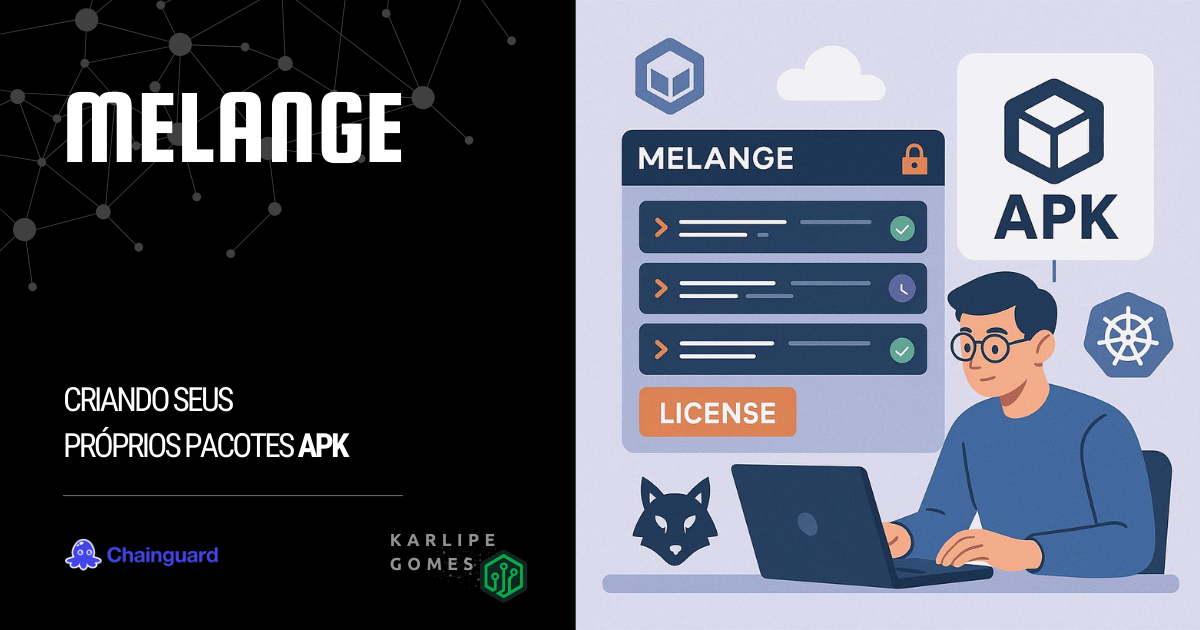
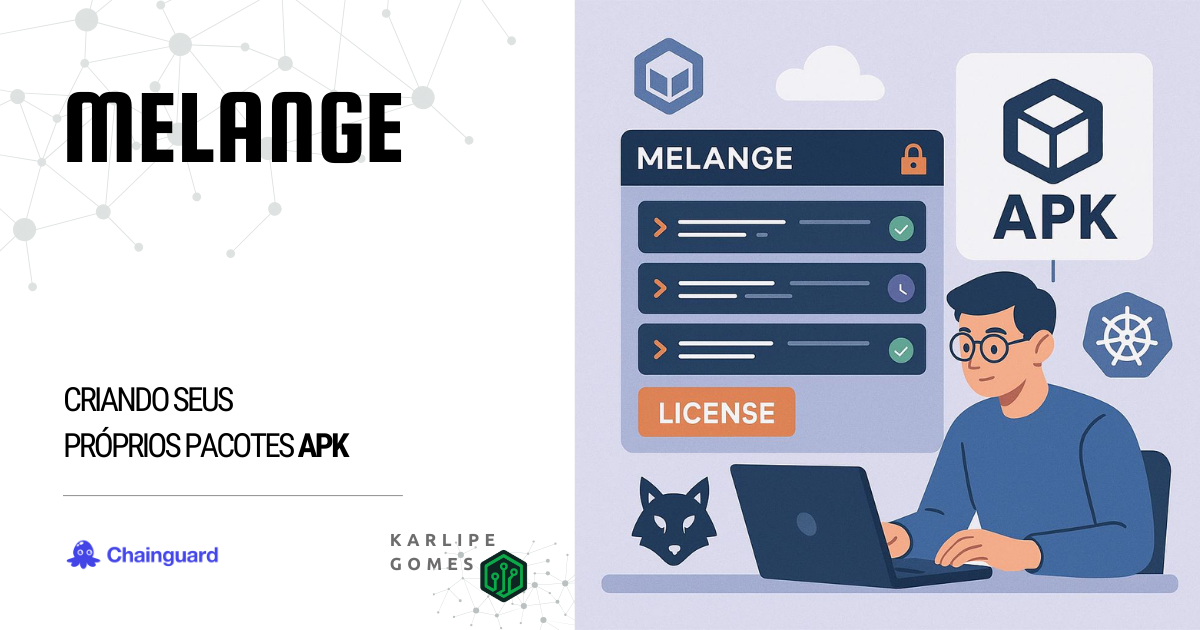
docs: Update Doc and draft APKO

diff --git a/docs/blog/posts/2025/2021-09-17-APKO.md b/docs/blog/posts/2025/2021-09-17-APKO.md
@@ -1,0 +1,271 @@
+---
+authors:
+  - karlipe
+date: 
+    created: 2025-09-17
+categories:
+    - CloudNative
+tags:
+    - distroless
+    - apko
+    - chainguard
+# readtime: 21
+draft: true
+---
+
+# **APKO: Criando suas Imagens Distroless Distroless/Zero-CVE***
+
+<figure markdown="span">
+  ![](imgs/apko/thumbnail.png)
+</figure>
+
+Empresas que tratam segurança com seriedade sabem que gerenciar vulnerabilidades pode parecer um trabalho infinito. Dependendo do tamanho do seu workload, pode se tornar inviável corrigir todas as vulnerabilidades existentes. Isso pode fazer com que muitas nunca sejam tratadas — ou simplesmente sejam ignoradas.
+
+E pior do que precisar atualizar softwares e ferramentas vulneráveis é manter pacotes que nem sequer são necessários para a execução da sua aplicação.
+
+Agora, imagine se fosse possível — de forma simples — ter controle sobre todas as versões de softwares e ferramentas instalados, garantindo que suas imagens estejam, na prática, **Zero-CVE***.
+
+<!-- more -->
+
+## **Motivação**
+
+O APKO é uma ferramenta para criar Imagens de Container(*single-layer*) baseadas em pacotes APK. Ele permite que você crie e mantenha suas próprias imagens base de serviços, de forma idempotente totalmente reproduzível em um único arquivo **YAML**.
+
+Abaixo podemos ver uma exemplificação simples de como o processo funciona, envolvendo [**MELANGE**](2021-09-10-Melange.md) e o [**APKO**](2021-09-17-APKO.md). **Melange** gera pacotes APKs, usáveis em [**Alpine**](https://alpinelinux.org/about/)(Linux minimalista mantido pela comunidade) e [**Wolfi**](https://edu.chainguard.dev/open-source/wolfi/overview/)(Linux *undistro* mantida ChainGuard). E então o **APKO**, consegue usar tanto as imagens personalizadas, quanto as de ambos repositórios e gerar a partir daí imagens super minimalistas.
+
+<figure markdown="span">
+  ![](imgs/apko/apko-ecosystem.png)
+</figure>
+
+
+Os principais ganhos são:
+
+- Facilidade de reproduzir as imagens base.
+- Possibilidade de especificar apenas dependências **NECESSÁRIAS** para o correto funcionamento da sua aplicação.
+- Suporte a SBOMs (Software Bills of Materials), o que facilita a rastreablidade e controle de tudo que está instalado nas suas imagens.
+- Diminuição dos vetores de ataque existentes no container, pois existirá apenas o mínimo necessário.
+
+Um ponto importante sobre o **Zero-CVE*** é que mesmo que tenha apenas o pacote do seu serviço, caso ele tenha vulnerabilidades conhecidas, o APKO não resolverá isso, é necessário que o seu pacote escolhido TAMBEM não tenha vulnerabilidaes, mas caso isso seja possível de forma simples, garantimos pois nenhum outro pacote será instalado.
+
+A Página de documentação da [**Chainguard**](https://edu.chainguard.dev/open-source/build-tools/apko/getting-started-with-apko/) é bem completa e pode ajudar bastante a entender, utilizando alguns exemplos práticos. Inclusive nem é necessário instalar nada, pois a partir do proprio container do apko *(via docker run)* é possível criar essas imagens.
+
+## **Como Utilizar**
+
+### **Pré-requisito**
+
+- **Download da imagem**: Outro passo de boa prática mas não 100% necessário, porque indiretamente a imagem será baixada quando você executar de fato o comando, é baixar a ultima imagem disponível na sua máquina para que você consiga realizar alguns passos caso queira realizar de forma offline.
+
+    ```shell title="Downloading APKO image"
+    docker pull cgr.dev/chainguard/apko
+    ```
+
+- **Pacotes Customizados já criados**: Caso tenha interesse em aumentar o nível de personalização da sua image, poderá usar pacotes APKs customizados pelo seu time, para atender demandas de alguns DEVs especificamente.
+
+
+## **Cenário Hipotético**
+
+- **Mitigar vulnerabilidade das imagens das Aplicações**
+
+    Imagine que sua empresa possui centenas de APIs expostas pra clientes, e que você tem que manter as imagens base atualizadas/livres de vulnerabilidade de forma a manter o **Compliance** exigido por seus clientes mais críticos. Tudo isso pensando em Multi-Arquitetura, neste caso: **X64 e ARM**.
+
+    Versões utilizadas para exemplo:
+
+      - [x] DotNet AspNET 8
+        </br></br>
+
+- **Situação Atual**
+
+    Hoje todos os desenvolvedores utilizam as imagens padrões oferecidas pela Microsoft, tendo como base o Debian mais atual. *Dockerfile, processo e docker-compose são gerados automaticamente pela IDE com base no SDK escolhido.*
+
+## **Exemplo Prático**
+
+### **Criar Arquivo de Configuração**
+
+Segue uma exemplificação de um arquivo .yaml que atende todas as necessidades citadas no cenário passado.
+
+```yaml title="dotnet8-aspnet.yaml"
+contents:
+  keyring:
+    - ./melange.rsa.pub
+  repositories:
+    - '@local /work/packages'
+    - https://dl-cdn.alpinelinux.org/alpine/edge/main
+  packages:
+    - ca-certificates-bundle
+    - dotnet8-aspnet@local
+    
+stop-signal: SIGTERM
+
+work-dir: /app
+
+accounts:
+  groups:
+    - groupname: company-user
+      gid: 10000
+  users:
+    - groupname: company-user
+      uid: 10000
+  run-as: company-user
+
+environment:
+  DOTNET_ROOT: "/usr/share/dotnet"
+  PATH: "/usr/local/sbin:/usr/local/bin:/usr/sbin:/usr/bin:/sbin:/bin:/usr/share/dotnet"
+  ASPNETCORE_HTTP_PORTS: 80
+  ASPNETCORE_URLS: "http://0.0.0.0:80"
+  DOTNET_RUNNING_IN_CONTAINER: true
+
+entrypoint:
+  command: dotnet
+
+archs:
+  - amd64
+  - arm64
+```
+
+#### Explicando as opções utilizadas:
+
+- **Sections**
+    - **contents**, Lista de onde o APKO irá buscar os conteudos, ordenado por:
+        ```yaml hl_lines="1"
+        contents:
+          keyring:
+            - ./melange.rsa.pub
+            ..
+        ```
+        - **keyring**, Localização das chaves públicas para checagem das assinaturas dos pacotes.
+            ```yaml hl_lines="2"
+            contents:
+              keyring:
+                - ./melange.rsa.pub
+                ..
+            ```
+        - **repositories**: Quais repositórios serão utilizados pra buscar os pacotes, podendo ser ambos locais ou remotos.
+            ```yaml hl_lines="2"
+            ..
+              repositories:
+                - '@local /work/packages'
+                - https://dl-cdn.alpinelinux.org/alpine/edge/main
+              ..
+            ```
+        - **packages**: Lista de pacotes necessários para a sua imagem, não necessário listar as subdependencias, isso será automaticamente buscado durante instalação.
+            ```yaml hl_lines="2"
+            ..
+                packages:
+                  - ca-certificates-bundle
+                  - dotnet8-aspnet@local
+              ..
+            ```
+    - **stop-signal**: Sinal de desligamento enviado pelo runtime ao processo principal no container. Neste caso o sinal enviado també é conhecido como 'graceful shutdown', pois o processo vai salvando estado, fechando conexões e liberando portas.
+        ```yaml hl_lines="2"
+        ..
+        stop-signal: SIGTERM
+        ..
+        ```
+    - **work-dir**: Diretório do serviço a ser executado.
+        ```yaml hl_lines="2"
+        ..
+        work-dir: /app
+        ..
+        ```
+    - **accounts**: É uma boa prática definir um user com pouquissima permissão/acesso para executar serviços, evitando o compromentimento do container. Essa config é usado para configurar contas de usuário na imagem e pode ser utilizado ao executar processos no container.
+        ```yaml hl_lines="2 3 6 9"
+        ..
+        accounts:
+          groups:
+            - groupname: company-user
+              gid: 10000
+          users:
+            - groupname: company-user
+              uid: 10000
+          run-as: company-user
+        ..
+        ```
+    - **environment**: Lista de variáveis de ambiente da Imagem.
+        ```yaml hl_lines="2"
+        ..
+        environment:
+          DOTNET_ROOT: "/usr/share/dotnet"
+          PATH: "/usr/local/sbin:/usr/local/b...
+          ..
+        ```
+    - **entrypoint**: Define o comando ou serviço padrão que será executado em runtime.
+        ```yaml hl_lines="2 3"
+        ..
+        entrypoint:
+          command: dotnet
+        ..
+        ```
+    - **archs**: Define a lista de arquiteturas que a imagem poderá ser *buildada*.
+        ```yaml hl_lines="2"
+        ..
+        archs:
+          - amd64
+          - arm64
+        ```
+
+### **Execução e Arquivos Gerados**
+
+Para ***buildar*** a Imagem, bastaria executar o comando abaixo. Nele podemos ver que está sendo referenciado quais arquiteturas serão utilizadas **`--arch amd64,arm64`**. Após a retag enviaremos a imagem para nosso registry.
+
+```shell title="Building Image dotnet8-aspnet"
+docker run --rm --workdir /work -v ${PWD}:/work \
+  cgr.dev/chainguard/apko build dotnet8-aspnet.yaml \
+  dotnet8-aspnet:test dotnet8-aspnet.tar --arch amd64,arm64
+
+docker load < ./dotnet8-aspnet.tar
+
+docker tag dotnet8-aspnet:test-amd64 harbor.mycompany.local/labs/dotnet8-aspnet:test-amd64
+docker tag dotnet8-aspnet:test-arm64 harbor.mycompany.local/labs/dotnet8-aspnet:test-arm64
+
+docker push --all-tags harbor.mycompany.local/labs/dotnet8-aspnet
+```
+
+
+Abaixo podemos ver uma exemplificação de Dockerfile 
+
+```dockerfile title="Multi-Stage Dockerfile base"
+FROM harbor.mycompany.local/labs/dotnet-builder-8:builder-arm64 as builder
+
+WORKDIR /build
+
+COPY ./ .
+
+RUN dotnet publish -v q -c Release \
+    --runtime linux-musl-arm64 \
+    --self-contained false \
+    --output publish
+
+FROM harbor.mycompany.local/labs/dotnet8-aspnet:test-arm64
+
+COPY --from=builder /build/publish /app
+
+#ENTRYPOINT ["dotnet"] implicito pois já é mencionado no arquivo apko.
+CMD ["API.dll"]
+```
+
+### **Comparação**
+
+- **Velocidade de StartUp**
+
+- **Tamanho**
+
+Como pode ser visto no print abaixo, o tamanho da imagem utilizando APKO é praticamente metade da outra, mesmo a outra sendo uma imagem base do alpine, que é considerada clean.
+
+<figure markdown="span">
+  ![](imgs/melange/harbor.png)
+</figure>
+
+- **Vulnerabilidade**
+
+
+## **Conclusão**
+
+Caso você queria se manter atualizado ou com controle total das versões instaladas, o melhor caminho é você ter o proprio gerenciamento dos seus pacotes. Isso poderá ser mais complicado no princípio mas te dará mais liberdade de escolher/personalizar as suas imagens base.
+
+Segue abaixo alguns links interessantes que podem ser úteis nessa jornada:
+
+- [**examples**](https://github.com/chainguard-dev/apko/tree/main/examples)
+- [**file description**](https://github.com/chainguard-dev/apko/blob/main/docs/apko_file.md)
+
+
+Qualquer dúvida, me procura nas minhas redes, que a gente troca uma idéia!

diff --git a/docs/blog/posts/2025/2021-09-10-Melange.md b/docs/blog/posts/2025/2021-09-10-Melange.md
@@ -16,7 +16,7 @@ readtime: 21
 # **MELANGE: Criando seus próprios pacotes APK**
 
 <figure markdown="span">
-  ![](imgs/melange/thumbnail2.png)
+  ![](imgs/melange/thumbnail.png)
 </figure>
 
 O Melange é uma ferramenta de build de pacotes APK (formato utilizado pelo Alpine Linux). Se você já trabalhou com containers baseados em Alpine, sabe como a leveza e a simplicidade são pontos fortes — e como, ao mesmo tempo, pode ser um desafio adaptar pacotes para atender necessidades específicas. É aí que o Melange entra: ele permite que você crie e mantenha seus próprios pacotes, de forma reprodutível, automatizável e multi-arquitetura. Isso tudo de forma declarativa em um único arquivo **YAML**.
@@ -840,7 +840,7 @@ contents:
     - https://dl-cdn.alpinelinux.org/alpine/v3.15/main 
   packages:
     - bash
-    - openssl
+    - ca-certificates-bundle
     - dotnet8-builder@local
 
 accounts:
@@ -901,7 +901,7 @@ Como pode ser visto no print abaixo, o tamanho da imagem utilizando APKO é prat
 
 - **Pacotes**
 
-    - **APKO**: Contem apenas 3 pacotes, bash/openssl/dotnet-sdk-8 que foi os que nós declaramos na instalação.
+    - **APKO**: Contem apenas 3 pacotes, bash/ca-certificates-bundle/dotnet-sdk-8 que foi os que nós declaramos na instalação.
     - **Dockerfile**: Contem todos os pacotes nativos do Alpine, mesmo sendo uma imagem enxuta, ainda vem com pacotes "indesejados".
     
 
